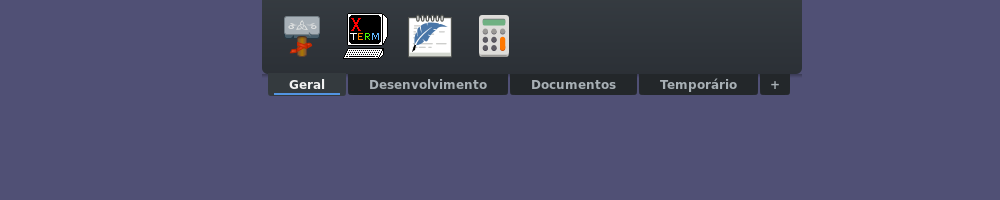
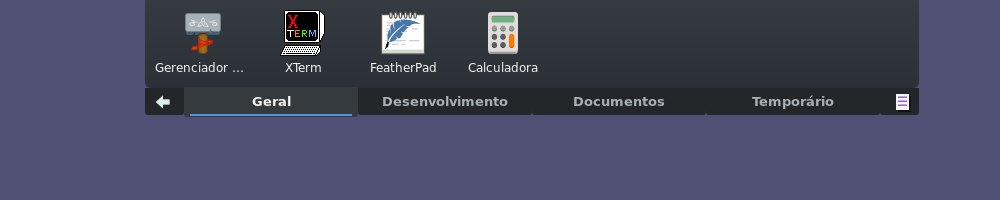
Big Tabbed Dock: testes e documentação da prateleira de ponta a ponta
- Testes de sessão: largura total por padrão (X11: x=0 e strut de toda a
  largura; Wayland: âncora esquerda+direita na largura útil), seta que
  recolhe e borda que traz de volta; auto-ocultar aceita a largura que o
  compositor dá.
- docs: referência do OPENSTEP 4.0 beta (largura, abas, botões, mármore),
  estilos Clássico/Ladrilhos/Moderno, Version=2 e migração, resultados
  (sessões: 105 PASS, 1 FAIL do wlmaker sem patch; integração do CI: 86
  PASS) e capturas reais novas.

Changed region(s): [[0.124, 0.0, 0.93, 0.6]]

diff --git a/docs/tabbed-dock/testes.md b/docs/tabbed-dock/testes.md
@@ -10,13 +10,22 @@ com login pelo greeter; o que depende disso está marcado como pendente.
 | Unitários do núcleo (GLib) | `meson test` — 5 programas, 23 casos: modelo, configuração (ida e volta, valores inválidos, recuperação de corrompido, .bak), índice .desktop e associação de janelas, coexistência (com `wdwrite` falso), lançamento (Exec com `%F`, nome de arquivo com `;$()'"`: nada executado por shell) | 5/5 ✅; também sob AddressSanitizer + LeakSanitizer + UBSan ✅ |
 | Estáticos do repositório | `tests/run.sh` (shellcheck, plists, .desktop, caminhos instalados, firstrun…) + passo novo do dock (build, testes, caminhos, tradução, proibição de `system`/`popen`/`sh -c`) | todos ✅ |
 | Pacote | `makepkg` do branch num contêiner `manjarolinux/base` limpo, como o CI | ✅ 4 pacotes (ver abaixo) |
-| Sessão X11 | Xvfb + Window Maker 0.96 + configuração do Big WindowMaker; mouse e teclado por `xdotool` | 37 ✅ |
-| Sessão Wayland | wlmaker `big-wm/protocols` `f11a08a` headless (pixman); ponteiro por `zwlr_virtual_pointer_v1` (`tests/tools/wlpointer.c`), teclado por `wtype` | 31 ✅, 1 ❌ (regressão do wlmaker), 2 pendentes |
-| Wayland com as propostas 0042–0044 | mesmo, wlmaker com os patches | 25 ✅ |
+| Integração do CI | `tests/integration/session-test.sh` no contêiner Manjaro fixado pelo CI, com os pacotes deste branch e os artefatos de big-windowmaker/packages (wlmaker pkgrel 7, que já traz 0042–0044) | 86 ✅, 0 ❌ ([resultados-integracao.tsv](resultados-integracao.tsv)) |
+| Sessão X11 | Xvfb + Window Maker 0.96 + configuração do Big WindowMaker; mouse e teclado por `xdotool` | 43 ✅ |
+| Sessão Wayland | wlmaker `big-wm/protocols` `f11a08a` **sem** patches, headless (pixman); ponteiro por `zwlr_virtual_pointer_v1` (`tests/tools/wlpointer.c`), teclado por `wtype` | 34 ✅, 1 ❌ (regressão do wlmaker, corrigida pelo 0044), 2 pendentes |
+| Wayland com 0042–0044 (= wlmaker empacotado hoje) | mesmo, wlmaker com os patches | 28 ✅ |
 | Memória (ASan) em uso real | dock compilado com `-Db_sanitize=address,undefined`, trocas de aba, lançamento, menu, arrasto, recarregar, preferências, sair (X11 e Wayland) | nenhum erro nem vazamento do código do dock (só alocações suprimidas de fontconfig/glib) |
 
-Resultados brutos: [resultados-2026-10-26.tsv](resultados-2026-10-26.tsv)
-(102 linhas: 93 PASS, 1 FAIL, 2 SKIP, 6 INFO).
+Resultados brutos das sessões: [resultados-sessoes.tsv](resultados-sessoes.tsv)
+(114 linhas: 105 PASS, 1 FAIL, 2 SKIP, 6 INFO).
+
+**Falha do CI corrigida (PR #3, run 40449635574)**: `wayland: dock com abas
+troca de aba (--tab)`. Reproduzida com o mesmo fluxo do CI: o `x11.sh` e o
+`wayland.sh` usam a mesma conta, o X11 deixava a aba Desenvolvimento ativa e
+o dock, corretamente, a lembrava no Wayland; o `--tab next` levava então a
+Documentos. O teste agora verifica essa memória entre sessões e troca a
+partir de uma aba conhecida (`--tab 1`, `--tab next`). Nenhuma mudança no
+dock foi necessária.
 
 ## Como reproduzir
 
@@ -37,7 +46,9 @@ num sistema real (`make install-*`, `meson install`) e aplicam o
 
 ## O que foi verificado em cada sessão
 
-**X11 (37 ✅)**: tipo dock e strut parcial; encostado na borda; 4 abas;
+**X11 (43 ✅)**: tipo dock e strut parcial; de ponta a ponta por padrão (x=0,
+1600 px, strut de 0 a 1599); a seta recolhe a prateleira (e tira a reserva),
+tocar a borda a traz de volta e ela fica (sem auto-ocultar); 4 abas;
 troca de aba por clique, rolagem, `Super+Alt+1`, `Super+Alt+PgDn` e `--tab`;
 lançar o xterm pelo dock; indicador e janela ativa; clique minimiza, clique
 restaura; botão do meio abre 2ª janela; clique alterna entre as janelas;
@@ -50,7 +61,9 @@ moderno + strut no topo; auto-ocultar (faixa, sem strut, reaparece na borda);
 preferências; `GDK_SCALE=2`; `--dock-mode=tabbed` grava `DisableDock` pelo
 `wdwrite` sem tocar o WMState e `both` reverte.
 
-**Wayland (31 ✅)**: cliente nativo em layer-shell; rastreamento por
+**Wayland (34 ✅)**: de ponta a ponta (âncora esquerda+direita; o wlmaker dá
+a largura útil, 1536 px ao lado do Clip); a seta recolhe e a borda traz de
+volta; cliente nativo em layer-shell; rastreamento por
 `ext-foreign-toplevel-list`; ancorado na borda; abas por clique, rolagem e
 `--tab`; lançar a calculadora (GTK 4) com indicador por app_id; clique num app
 que não pode ser ativado abre o menu de janelas (no pressionar do botão) em vez de duplicar; app
@@ -69,7 +82,7 @@ mesmo teste passa). **Pendentes**: tecla `Logo+Alt+N` no wlmaker (o `wtype` não
 aciona atalhos de dois modificadores no headless — o comando que ela chama é
 testado); religar uma saída (o headless do wlroots remove a saída desligada).
 
-**Com as propostas 0042–0044 (25 ✅)**: backend
+**Com as propostas 0042–0044 (28 ✅)**: backend
 `wayland-wlr-foreign-toplevel` (caps=31); estado ativo; clique minimiza;
 clique restaura e ativa; alternar entre duas janelas; zona exclusiva respeitada;
 e os demais testes funcionais iguais.
@@ -87,6 +100,7 @@ depois de iniciar o dock, com os caches descartados antes.
 |---|---|---|
 | Primeiro quadro (1ª execução, fria / seguintes) | 85,5 ms / 24,3 e 25,4 ms | 83,7 ms / 27,9 e 27,8 ms |
 | PSS / USS / RSS do dock | 25,5 / 18,0 / 41,4 MB | 26,4 / 17,1 / 42,3 MB |
+| PSS no fim do teste funcional, visual de ponta a ponta (mármore 2× 256×256, nomes) | 28,4 MB | 25,6 MB |
 | Threads | 7 | 8 |
 | CPU ociosa em 60 s | 0 ticks | 0 ticks |
 | PSS da sessão antes → depois | 77,5 → 124,1 MB | 30,6 → 82,0 MB |

diff --git a/docs/tabbed-dock/x11-wayland.md b/docs/tabbed-dock/x11-wayland.md
@@ -7,13 +7,13 @@ fora do dock (proposta pronta) · ❓ pendente de hardware/sessão real.
 |---|---|---|
 | Cliente nativo | ✅ janela `_NET_WM_WINDOW_TYPE_DOCK`, sem foco, em todas as áreas de trabalho | ✅ superfície `zwlr_layer_shell_v1` (camada TOP), sem nenhuma API X11 |
 | Posição e alinhamento | ✅ | ✅ (o wlmaker centraliza na **área útil**, descontando o Clip: o dock fica alguns pixels à direita do centro da tela — comportamento do compositor) |
-| Reserva de espaço | ✅ `_NET_WM_STRUT` + `_PARTIAL` (o Window Maker reserva a borda inteira; ícones e janelas maximizadas respeitam) | ⏳ zona exclusiva enviada corretamente; o wlmaker `f11a08a` (head atual do fork) **não** a aplica ao maximizar — regressão do próprio wlmaker, corrigida pela proposta 0044 (testado: a moldura passa a terminar no topo do dock); no snapshot anterior `c7bcb50` era respeitada |
+| Reserva de espaço | ✅ `_NET_WM_STRUT` + `_PARTIAL` (o Window Maker reserva a borda inteira; ícones e janelas maximizadas respeitam) | ✅ com o wlmaker empacotado (pkgrel 7, que inclui a proposta 0044); o head do fork `f11a08a` sem o 0044 não aplica a zona ao maximizar (regressão do wlmaker) |
 | Auto-ocultar | ✅ a janela fica no lugar e vira uma faixa de 4 px pela forma (o Window Maker ignora mover janelas dock) | ✅ a superfície encolhe para 4 px |
 | Vários monitores | 🔧 escolha por nome RandR, índice ou principal; ❓ não testado com dois monitores (o Xvfb dá um só ao GTK 3) | ✅ nome do conector por xdg-output (o GTK 3 diz "Unknown"), índice, ou a saída na origem; saída removida → volta para outra |
 | Mudança de resolução | ✅ (xrandr 1600×900 → 1280×720) | ✅ (wlr-randr) |
 | Escala HiDPI | ✅ `GDK_SCALE=2` | 🔧 escala inteira do GTK 3; fracionária vira escala inteira reduzida pelo compositor |
 | Aplicativos em execução | ✅ `_NET_CLIENT_LIST`, WM_CLASS, `_GTK_APPLICATION_ID`, pid | ✅ app_id pelo `ext-foreign-toplevel-list` |
-| Janela ativa / minimizada | ✅ `_NET_ACTIVE_WINDOW`, `_NET_WM_STATE_HIDDEN`/WM_STATE | ⏳ o protocolo ext não tem estado; com o patch proposto ✅ |
+| Janela ativa / minimizada | ✅ `_NET_ACTIVE_WINDOW`, `_NET_WM_STATE_HIDDEN`/WM_STATE | ✅ com o wlmaker empacotado (wlr-foreign-toplevel, proposta 0042); só com `ext-foreign-toplevel-list`, sem estado |
 | Ativar janela existente | ✅ `_NET_ACTIVE_WINDOW` (fonte 2, troca de área de trabalho) | 🔧 aplicativo DBusActivatable: `org.freedesktop.Application.Activate` com token xdg-activation (testado); os demais: menu com as janelas e "Nova janela" (nunca abre duplicata por engano); ⏳ com o patch ✅ |
 | Minimizar / restaurar / fechar | ✅ WM_CHANGE_STATE, `_NET_CLOSE_WINDOW` | ⏳ só com o patch proposto (testado com ele) |
 | Alternar janelas do mesmo app | ✅ clique e rolagem | ⏳ com o patch ✅ |
@@ -25,7 +25,7 @@ fora do dock (proposta pronta) · ❓ pendente de hardware/sessão real.
 | Token de lançamento | startup-notification (o Window Maker ignora) | ✅ `XDG_ACTIVATION_TOKEN` do GTK em todo lançamento |
 | Dock clássico junto | ✅ Dock do Window Maker à direita | ✅ `wlmdock` à direita |
 
-## O que falta no wlmaker (propostas, não aplicadas)
+## O que faltava no wlmaker (propostas, adotadas no pacote wlmaker pkgrel 7)
 
 Em [propostas/](propostas/), gerados contra uma cópia exportada do branch
 `big-wm/protocols` em `f11a08a` (o repositório do fork não foi alterado):

diff --git a/docs/tabbed-dock/propostas/README.md b/docs/tabbed-dock/propostas/README.md
@@ -1,7 +1,8 @@
-# Propostas fora deste repositório (não aplicadas)
+# Propostas fora deste repositório
 
-Nada aqui foi aplicado em `big-wm-packages`, `big-wm-iso-profiles` nem no fork
-`big-wm-wlmaker`: são diffs para revisão.
+Escritas como diffs para revisão. Os três patches do wlmaker foram adotados
+pelo pacote `wlmaker` de big-windowmaker/packages (pkgrel 7), que o CI deste
+repositório já usa; a lista da ISO segue como proposta.
 
 ## 1. wlmaker: wlr-foreign-toplevel-management, título e zona exclusiva
 
